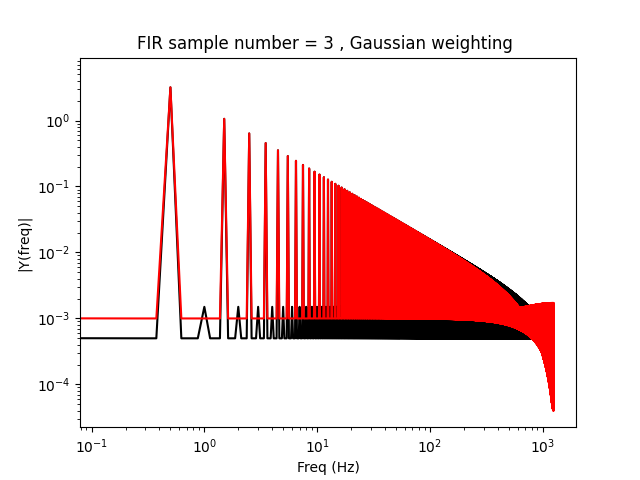
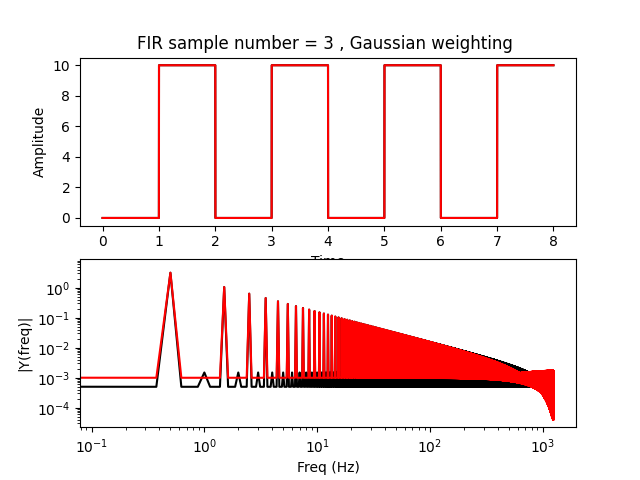
update plot
FIR

diff --git a/HW2/FIR/FIR.py b/HW2/FIR/FIR.py
@@ -4,7 +4,7 @@ import csv
 
 t = [] # column 0
 data = [] # column 1
-with open('sigC.csv') as f:
+with open('sigD.csv') as f:
     # open the csv file
     reader = csv.reader(f)
     for row in reader:
@@ -12,10 +12,17 @@ with open('sigC.csv') as f:
         t.append(float(row[0])) # leftmost column
         data.append(float(row[1])) # second column
 h = [
-    0.040387893253289342,
-    0.919224213493421316,
-    0.040387893253289342,
-] #Gaussian weight with samples # = X
+    0.009785867631224162,
+    0.033632981159779557,
+    0.084896519194903930,
+    0.157388464297928743,
+    0.214296167716163610,
+    0.214296167716163610,
+    0.157388464297928743,
+    0.084896519194903930,
+    0.033632981159779557,
+    0.009785867631224162,
+]#Gaussian weight with samples # = X
 
 X=len(h) # number of data points sampled
 newdata=[0]*(X-1)
@@ -28,8 +35,14 @@ while i+X<=len(t):
     i=i+1
 
 
+fig, (ax1, ax2) = plt.subplots(2, 1)
+ax1.plot(t,data,'k')
+ax1.plot(t,newdata,'r')
+ax1.set_xlabel('Time')
+ax1.set_ylabel('Amplitude')
+
+
 Fs = len(t)/(t[-1]-t[0]) #sampling rate
-print(Fs)
 Ts = 1.0/Fs # sampling interval
 ts = np.arange(0,t[-1],Ts) # time vector
 y = data # the data to make the fft from
@@ -41,7 +54,7 @@ frq = frq[range(int(n/2))] # one side frequency range
 Y = np.fft.fft(y)/n # fft computing and normalization
 Y = Y[range(int(n/2))]
 
-plt.loglog(frq,abs(Y),'k') # plotting the fft
+ax2.loglog(frq,abs(Y),'k') # plotting the fft
 
 Fs = len(t)/(t[-1]-t[0]) #sampling rate
 Ts = 1.0/Fs # sampling interval
@@ -55,13 +68,13 @@ frq = frq[range(int(n/2))] # one side frequency range
 Y = np.fft.fft(y)/n # fft computing and normalization
 Y = Y[range(int(n/2))]
 
-plt.loglog(frq,abs(Y),'r') # plotting the fft
+ax2.loglog(frq,abs(Y),'r') # plotting the fft
 
 
-plt.xlabel('Freq (Hz)')
-plt.ylabel('|Y(freq)|')
+ax2.set_xlabel('Freq (Hz)')
+ax2.set_ylabel('|Y(freq)|')
 title="FIR sample number = %d , Gaussian weighting " % X
-plt.title(title)
+ax1.set_title(title)
 
 plt.show()
 
